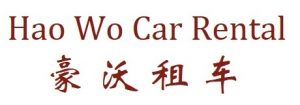
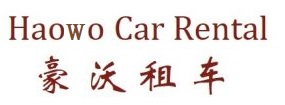
update

diff --git a/index.html b/index.html
@@ -5,7 +5,7 @@
     <meta http-equiv="Content-Type" content="text/html; charset=UTF-8">
     <meta name="viewport" content="width=device-width, initial-scale=1.0">
     <link rel="shortcut icon" href="static/icon.jpg">
-    <title>HAO WO – Car Rental</title>
+    <title>Haowo – Car Rental</title>
 
     <link rel="stylesheet" id="elitepress-bootstrap-css" href="static/bootstrap.css" type="text/css" media="all">
     <link rel="stylesheet" id="elitepress-style-css" href="static/style.css" type="text/css" media="all">
@@ -216,7 +216,7 @@
                     <div class="col-md-12 col-sm-12">
                         <div class="section-header">
                             <h3 class="section-title">Our Services</h3>
-                            <p class="section-subtitle">Hao Wo Car Rental company has been providing high quality cars and drivers to the expatriate community of Shanghai for the past 18 years.</p>
+                            <p class="section-subtitle">Haowo Car Rental company has been providing high quality cars and drivers to the expatriate community of Shanghai for the past 18 years.</p>
                         </div>
                     </div>
                 </div>
@@ -352,7 +352,7 @@
                 <div class="row">
                     <div class="col-md-12 col-sm-12">
                         <div class="section-header">
-                            <h3 class="section-title">About HaoWo</h3>
+                            <h3 class="section-title">About Haowo</h3>
                             <p class="section-subtitle"></p>
                         </div>
                     </div>
@@ -362,7 +362,7 @@
                 <div class="row">
                     <div class="col-md-6 col-sm-6">
                         <p style="font-size: 20px">
-                           HaoWo Car Rental company has been providing high quality cars and drivers to the expatriate community of Shanghai for the past 18 years. We ensure the best standards at the lowest prices and would like to offer you a selection of high quality vehicles from our fleet. We select only the best vehicles that suit the needs of expatriates here in Shanghai! Looking forward to provide our excellent services for you soon.
+                           Haowo Car Rental company has been providing high quality cars and drivers to the expatriate community of Shanghai for the past 18 years. We ensure the best standards at the lowest prices and would like to offer you a selection of high quality vehicles from our fleet. We select only the best vehicles that suit the needs of expatriates here in Shanghai! Looking forward to provide our excellent services for you soon.
                         </p>
                         <p style="font-size: 20px">
                             <strong style="font-size: 20px;color: #f36557">A part of our clients:</strong> 
@@ -441,7 +441,7 @@
                 <div class="row">
                     <div class="col-md-12 col-sm-12">
                         <div class="section-header">
-                            <h3 class="section-title">CONTACT HaoWo</h3>
+                            <h3 class="section-title">CONTACT Haowo</h3>
                             <p class="section-subtitle"></p>
                         </div>
                     </div>
@@ -527,6 +527,13 @@
         <div class="col-md-2 col-sm-3 col-xs-3 logos"> <img src="logos/CocaCola.png" style="width:260px;" alt="CocaCola"></a> </div>
         <div class="col-md-2 col-sm-3 col-xs-3 logos"> <img src="logos/decathlon.png" style="width:260px;" alt="decathlon"></a> </div>
         <div class="col-md-2 col-sm-3 col-xs-3 logos"> <img src="logos/American-School.png" style="width:260px;" alt="American-School"></a> </div>
+
+        <div class="col-md-2 col-sm-3 col-xs-3 logos"> <img src="logos/signify-2.png" style="width:260px;" alt="signify"></a> </div>
+        <div class="col-md-2 col-sm-3 col-xs-3 logos"> <img src="logos/odl.jpg" style="width:260px;" alt="odl"></a> </div>
+        <div class="col-md-2 col-sm-3 col-xs-3 logos"> <img src="logos/imperial-2.png" style="width:260px;" alt="imperial"></a> </div>
+        <div class="col-md-2 col-sm-3 col-xs-3 logos"> <img src="logos/zara-2.png" style="width:260px;" alt="zara"></a> </div>
+        <div class="col-md-2 col-sm-3 col-xs-3 logos"> <img src="logos/shxhjy-2.png" style="width:260px;" alt="shxhjy"></a> </div>
+        <div class="col-md-2 col-sm-3 col-xs-3 logos"> <img src="logos/dz-2.png" style="width:260px;" alt="dz"></a> </div>
       </div>
     </div>
   </section>
@@ -540,7 +547,7 @@
                 <div class="row">
                     <div class="col-md-7">
                         <div class="footer-copyright">
-                            <p>Copyright ©2004 - 2022 <a href="http://www.hwcarrental.com/" target="_blank">Hao Wo Car Rental.</a>沪ICP备18016820号</p>
+                            <p>Copyright ©2004 - 2022 <a href="http://www.hwcarrental.com/" target="_blank">Haowo Car Rental.</a>沪ICP备18016820号</p>
                         </div>
                     </div>
                     <div class="col-md-5"></div>
